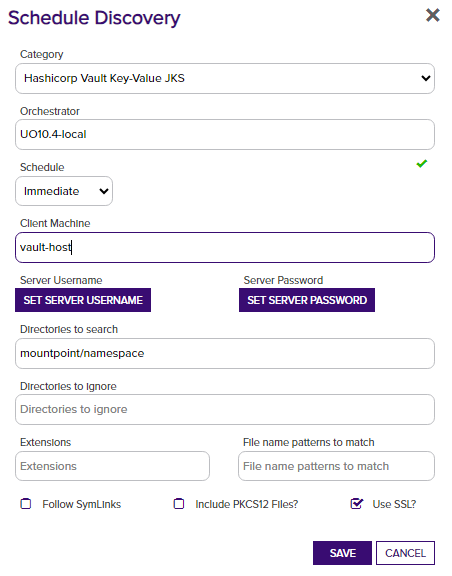
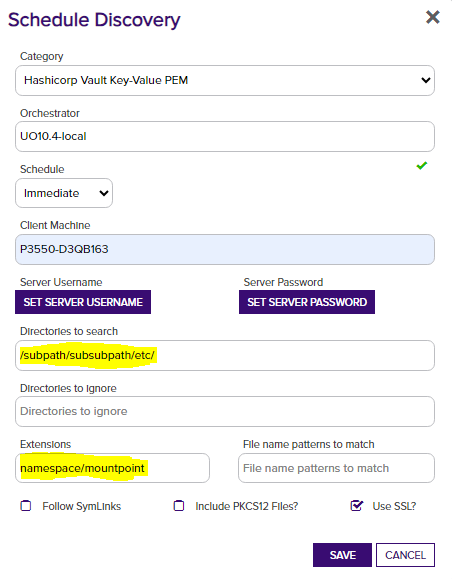
Updated discovery to allow entering mountpoint and namespace, as well as a sub-folder path.

diff --git a/hashicorp-vault-orchestrator/HcvKeyValueClient.cs b/hashicorp-vault-orchestrator/HcvKeyValueClient.cs
@@ -118,7 +118,7 @@ namespace Keyfactor.Extensions.Orchestrator.HashicorpVault
 
                 VaultClient.V1.Auth.ResetVaultToken();
 
-                var newData = new Dictionary<string, object> { { entryName, Convert.ToBase64String(newStoreBytes) }, { "passphrase", passphrase } };                
+                var newData = new Dictionary<string, object> { { entryName, Convert.ToBase64String(newStoreBytes) }, { "passphrase", passphrase } };
 
                 if (string.IsNullOrEmpty(_mountPoint))
                 {
@@ -152,7 +152,8 @@ namespace Keyfactor.Extensions.Orchestrator.HashicorpVault
                     await VaultClient.V1.Secrets.KeyValue.V2.WriteSecretAsync(_storePath, newData, mountPoint: _mountPoint);
                 }
             }
-            catch (Exception ex) {
+            catch (Exception ex)
+            {
                 logger.LogError(ex, $"Error creating the PEM certificate store at path {_storePath}");
                 throw;
             }
@@ -172,14 +173,7 @@ namespace Keyfactor.Extensions.Orchestrator.HashicorpVault
             {
                 try
                 {
-                    if (string.IsNullOrEmpty(_mountPoint))
-                    {
-                        res = await VaultClient.V1.Secrets.KeyValue.V2.ReadSecretAsync(fullPath);
-                    }
-                    else
-                    {
-                        res = await VaultClient.V1.Secrets.KeyValue.V2.ReadSecretAsync(fullPath, mountPoint: _mountPoint);
-                    }
+                    res = await VaultClient.V1.Secrets.KeyValue.V2.ReadSecretAsync(fullPath, mountPoint: _mountPoint);
                 }
                 catch (Exception ex)
                 {
@@ -221,7 +215,7 @@ namespace Keyfactor.Extensions.Orchestrator.HashicorpVault
 
                 for (int i = 0; i < certs.Count(); i++)
                 {
-                    certs[i] = certs[i] + certFooter;
+                    certs[i] = certs[i].Trim() + certFooter;
                 }
 
                 // if the certs have not been revoked, include them
@@ -256,7 +250,9 @@ namespace Keyfactor.Extensions.Orchestrator.HashicorpVault
             string suffix = "";
             storePath = storePath ?? _storePath;
 
-            if (string.IsNullOrEmpty(storePath)) { storePath = "/"; }
+            if (!storePath.StartsWith("/")) storePath = "/" + storePath;
+            if (!storePath.EndsWith("/")) storePath = storePath + "/";
+
 
             var vaultPaths = new List<string>();
             var entryPaths = new List<string>();
@@ -282,18 +278,8 @@ namespace Keyfactor.Extensions.Orchestrator.HashicorpVault
             try
             {
                 logger.LogTrace("sending request to Vault.");
-
-                if (_mountPoint == null)
-                {
-                    var res = await VaultClient.V1.Secrets.KeyValue.V2.ReadSecretPathsAsync(storePath);
-                    entryPaths = res.Data.Keys.ToList();
-                }
-                else
-                {
-                    var res = await VaultClient.V1.Secrets.KeyValue.V2.ReadSecretPathsAsync(storePath, _mountPoint);
-                    entryPaths = res.Data.Keys.ToList();
-                }
-
+                var res = await VaultClient.V1.Secrets.KeyValue.V2.ReadSecretPathsAsync(storePath, _mountPoint);
+                entryPaths = res.Data.Keys.ToList();
             }
             catch (Exception ex)
             {
@@ -313,16 +299,9 @@ namespace Keyfactor.Extensions.Orchestrator.HashicorpVault
                     IDictionary<string, object> keys;
                     try
                     {
-                        if (_mountPoint == null)
-                        {
-                            var res = await VaultClient.V1.Secrets.KeyValue.V2.ReadSecretSubkeysAsync(storePath + path);
-                            keys = res.Data.Subkeys;
-                        }
-                        else
-                        {
-                            var res = await VaultClient.V1.Secrets.KeyValue.V2.ReadSecretSubkeysAsync(storePath + path, mountPoint: _mountPoint);
-                            keys = res.Data.Subkeys;
-                        }
+                        var res = await VaultClient.V1.Secrets.KeyValue.V2.ReadSecretSubkeysAsync(storePath + path, mountPoint: _mountPoint);
+                        keys = res.Data.Subkeys;
+
                         // does it have an entry with the suffix we are looking for?
                         var key = keys.FirstOrDefault(k => k.Key.EndsWith(suffix));
                         if (key.Key != null)
@@ -469,14 +448,7 @@ namespace Keyfactor.Extensions.Orchestrator.HashicorpVault
 
                 var fullPath = _storePath + certName;
 
-                if (_mountPoint == null)
-                {
-                    await VaultClient.V1.Secrets.KeyValue.V2.WriteSecretAsync(fullPath, certDict);
-                }
-                else
-                {
-                    await VaultClient.V1.Secrets.KeyValue.V2.WriteSecretAsync(fullPath, certDict, mountPoint: _mountPoint);
-                }
+                await VaultClient.V1.Secrets.KeyValue.V2.WriteSecretAsync(fullPath, certDict, mountPoint: _mountPoint);
             }
             catch (Exception ex)
             {
@@ -519,14 +491,8 @@ namespace Keyfactor.Extensions.Orchestrator.HashicorpVault
                 // first get entry contents and passphrase
                 logger.LogTrace("getting all secrets in the parent container for the store.");
 
-                if (string.IsNullOrEmpty(_mountPoint))
-                {
-                    res = await VaultClient.V1.Secrets.KeyValue.V2.ReadSecretAsync(parentPath);
-                }
-                else
-                {
-                    res = await VaultClient.V1.Secrets.KeyValue.V2.ReadSecretAsync(parentPath, mountPoint: _mountPoint);
-                }
+                res = await VaultClient.V1.Secrets.KeyValue.V2.ReadSecretAsync(parentPath, mountPoint: _mountPoint);
+
                 certData = (Dictionary<string, object>)res.Data.Data;
                 logger.LogTrace("got secret data.", certData);
 
@@ -567,18 +533,7 @@ namespace Keyfactor.Extensions.Orchestrator.HashicorpVault
                     var newData = new Dictionary<string, object> { { key, newEntry } };
                     var patchReq = new PatchSecretDataRequest() { Data = newData };
 
-                    // temporary debugging code
-                    var stringContent = new StringContent(JsonSerializer.Serialize(newData), Encoding.UTF8);
-                    //
-
-                    if (string.IsNullOrEmpty(_mountPoint))
-                    {
-                        await VaultClient.V1.Secrets.KeyValue.V2.PatchSecretAsync(parentPath, patchReq);
-                    }
-                    else
-                    {
-                        await VaultClient.V1.Secrets.KeyValue.V2.PatchSecretAsync(parentPath, patchReq, _mountPoint);
-                    }
+                    await VaultClient.V1.Secrets.KeyValue.V2.PatchSecretAsync(parentPath, patchReq, _mountPoint);
                 }
                 catch (Exception ex)
                 {
@@ -650,14 +605,8 @@ namespace Keyfactor.Extensions.Orchestrator.HashicorpVault
                 // first get entry contents and passphrase
                 logger.LogTrace("getting all secrets in the parent container for the store.");
 
-                if (string.IsNullOrEmpty(_mountPoint))
-                {
-                    res = await VaultClient.V1.Secrets.KeyValue.V2.ReadSecretAsync(parentPath);
-                }
-                else
-                {
-                    res = await VaultClient.V1.Secrets.KeyValue.V2.ReadSecretAsync(parentPath, mountPoint: _mountPoint);
-                }
+                res = await VaultClient.V1.Secrets.KeyValue.V2.ReadSecretAsync(parentPath, mountPoint: _mountPoint);
+
                 certData = (Dictionary<string, object>)res.Data.Data;
                 logger.LogTrace("got secret data.", certData);
 
@@ -697,19 +646,7 @@ namespace Keyfactor.Extensions.Orchestrator.HashicorpVault
 
                     var newData = new Dictionary<string, object> { { key, newEntry } };
                     var patchReq = new PatchSecretDataRequest() { Data = newData };
-
-                    // temporary debugging code
-                    var stringContent = new StringContent(JsonSerializer.Serialize(newData), Encoding.UTF8);
-                    //
-
-                    if (string.IsNullOrEmpty(_mountPoint))
-                    {
-                        await VaultClient.V1.Secrets.KeyValue.V2.PatchSecretAsync(parentPath, patchReq);
-                    }
-                    else
-                    {
-                        await VaultClient.V1.Secrets.KeyValue.V2.PatchSecretAsync(parentPath, patchReq, _mountPoint);
-                    }
+                    await VaultClient.V1.Secrets.KeyValue.V2.PatchSecretAsync(parentPath, patchReq, _mountPoint);
                 }
                 catch (Exception ex)
                 {
@@ -732,15 +669,7 @@ namespace Keyfactor.Extensions.Orchestrator.HashicorpVault
             try
             {
                 var fullPath = _storePath + certName;
-
-                if (_mountPoint == null)
-                {
-                    await VaultClient.V1.Secrets.KeyValue.V2.DeleteSecretAsync(fullPath);
-                }
-                else
-                {
-                    await VaultClient.V1.Secrets.KeyValue.V2.DeleteSecretAsync(fullPath, _mountPoint);
-                }
+                await VaultClient.V1.Secrets.KeyValue.V2.DeleteSecretAsync(fullPath, _mountPoint);
             }
             catch (Exception ex)
             {
@@ -793,14 +722,7 @@ namespace Keyfactor.Extensions.Orchestrator.HashicorpVault
                 var relative_path = path.Substring(_storePath.Length);
                 try
                 {
-                    if (string.IsNullOrEmpty(_mountPoint))
-                    {
-                        entryNames = (await VaultClient.V1.Secrets.KeyValue.V2.ReadSecretPathsAsync(path)).Data.Keys.ToList();
-                    }
-                    else
-                    {
-                        entryNames = (await VaultClient.V1.Secrets.KeyValue.V2.ReadSecretPathsAsync(path, mountPoint: _mountPoint)).Data.Keys.ToList();
-                    }
+                    entryNames = (await VaultClient.V1.Secrets.KeyValue.V2.ReadSecretPathsAsync(path, mountPoint: _mountPoint)).Data.Keys.ToList();
 
                     entryNames.ForEach(k =>
                     {
@@ -827,14 +749,7 @@ namespace Keyfactor.Extensions.Orchestrator.HashicorpVault
 
             try
             {
-                if (string.IsNullOrEmpty(_mountPoint))
-                {
-                    res = (await VaultClient.V1.Secrets.KeyValue.V2.ReadSecretAsync(parentPath));
-                }
-                else
-                {
-                    res = (await VaultClient.V1.Secrets.KeyValue.V2.ReadSecretAsync(parentPath, mountPoint: _mountPoint));
-                }
+                res = (await VaultClient.V1.Secrets.KeyValue.V2.ReadSecretAsync(parentPath, mountPoint: _mountPoint));
             }
             catch (Exception ex)
             {

diff --git a/hashicorp-vault-orchestrator/Jobs/JobBase.cs b/hashicorp-vault-orchestrator/Jobs/JobBase.cs
@@ -41,6 +41,7 @@ namespace Keyfactor.Extensions.Orchestrator.HashicorpVault.Jobs
         public void InitializeStore(InventoryJobConfiguration config)
         {            
             ClientMachine = config.CertificateStoreDetails.ClientMachine;
+            MountPoint = "kv-v2"; // default
 
             // ClientId can be omitted for system assigned managed identities, required for user assigned or service principal auth
             VaultServerUrl = PAMUtilities.ResolvePAMField(PamSecretResolver, logger, "Server UserName", config.ServerUsername);
@@ -66,15 +67,23 @@ namespace Keyfactor.Extensions.Orchestrator.HashicorpVault.Jobs
             // ClientSecret can be omitted for managed identities, required for service principal auth
             VaultToken = PAMUtilities.ResolvePAMField(PamSecretResolver, logger, "Server Password", config.ServerPassword);
 
-            var dirs = config.JobProperties?["dirs"] as string;
-            // Discovery jobs need to pass the mount-point/namespace in this field.
+            var subPath = config.JobProperties?["dirs"] as string;
+            var mp = config.JobProperties?["extensions"] as string;
+
+            // Discovery jobs need to pass the sub-paths in the "directories to search" field.
+            // The mount point and namespace should be passed in the "Extensions" field.
             // if nothing is provided, we default to mount point: "kv-v2" and no namespace.
-            if (!string.IsNullOrEmpty(dirs) && dirs.Trim() != "/" && dirs.Trim() != "\\") {
-                MountPoint = dirs.Trim();
+
+            StorePath = "/";
+            if (!string.IsNullOrEmpty(mp) && mp.Trim() != "/" && mp.Trim() != "\\") {
+                MountPoint = mp;
+            }
+            if (!string.IsNullOrEmpty(subPath)) {
+                StorePath = subPath;
             }
 
-            logger.LogTrace($"Directories to search: {dirs}");
-
+            logger.LogTrace($"Directories to search (mount point): {mp}");
+            logger.LogTrace($"Directories to ignore (subpath to search): {subPath}");
             InitProps(config.JobProperties, config.Capability);
         }
         public void InitializeStore(ManagementJobConfiguration config)
@@ -105,9 +114,9 @@ namespace Keyfactor.Extensions.Orchestrator.HashicorpVault.Jobs
                     StorePath += "/"; //ensure single trailing slash for path for PKI or PEM stores.  Others use the entry value instead of the container.
                 }                
             }
+            var mp = props["MountPoint"]?.ToString();
 
-
-            MountPoint = props.ContainsKey("MountPoint") ? props["MountPoint"].ToString() : MountPoint;
+            MountPoint = !string.IsNullOrEmpty(mp) ? mp : MountPoint;
             SubfolderInventory = props.ContainsKey("SubfolderInventory") ? bool.Parse(props["SubfolderInventory"].ToString()) : false;
             IncludeCertChain = props.ContainsKey("IncludeCertChain") ? bool.Parse(props["IncludeCertChain"].ToString()) : false;
             

diff --git a/hashicorp-vault-orchestrator/Jobs/Discovery.cs b/hashicorp-vault-orchestrator/Jobs/Discovery.cs
@@ -27,7 +27,7 @@ namespace Keyfactor.Extensions.Orchestrator.HashicorpVault.Jobs
 
             try
             {
-                vaults = VaultClient.GetVaults(string.Empty).Result.ToList();
+                vaults = VaultClient.GetVaults(StorePath).Result.ToList();
             }
             catch (Exception ex)
             {

diff --git a/readme_source.md b/readme_source.md
@@ -36,7 +36,7 @@ Excluding *HCVKVPEM*, the discovery process requires that:
 
 **Note**: Key/Value secrets that do not include the expected keys will be ignored during inventory scans.
 
-> :warning: *If your mount point is different than the default "kv-v2" and/or enterprise namespaces are used, you should enter the mount point and namespace into the "directories to search" field in order for discovery to work.*
+> :warning: *If your mount point is different than the default "kv-v2" and/or enterprise namespaces are used, you should enter the mount point and namespace into the "Extensions" field in order for discovery to work.  Also, if you need to scope discovery to a sub-path rather than the root of the engine mount point, enter that in the "Directories to search" field.*
 
 > *refer to the below image for an example*
 
